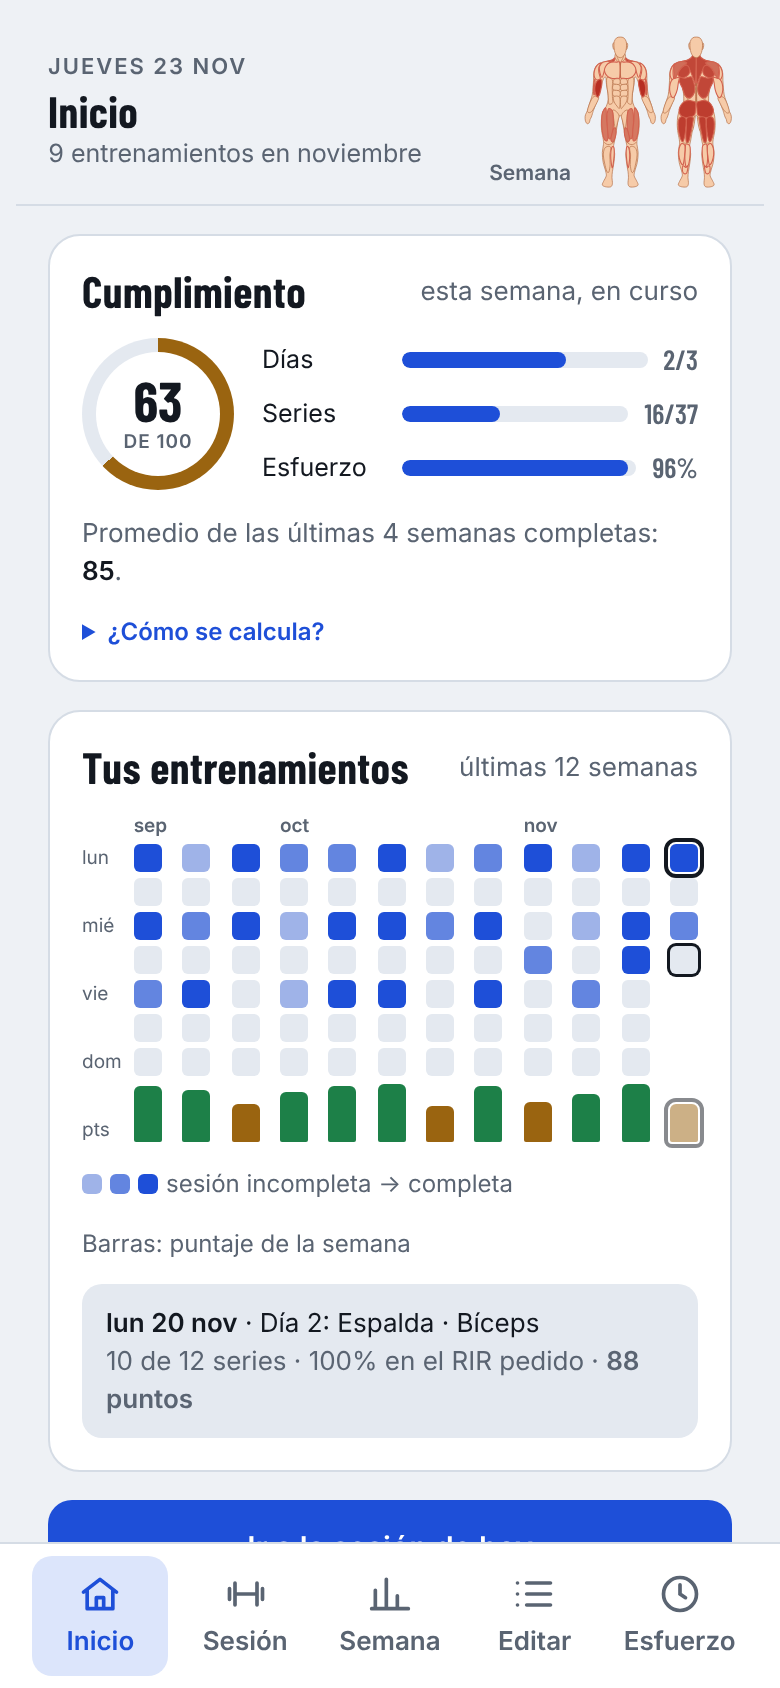
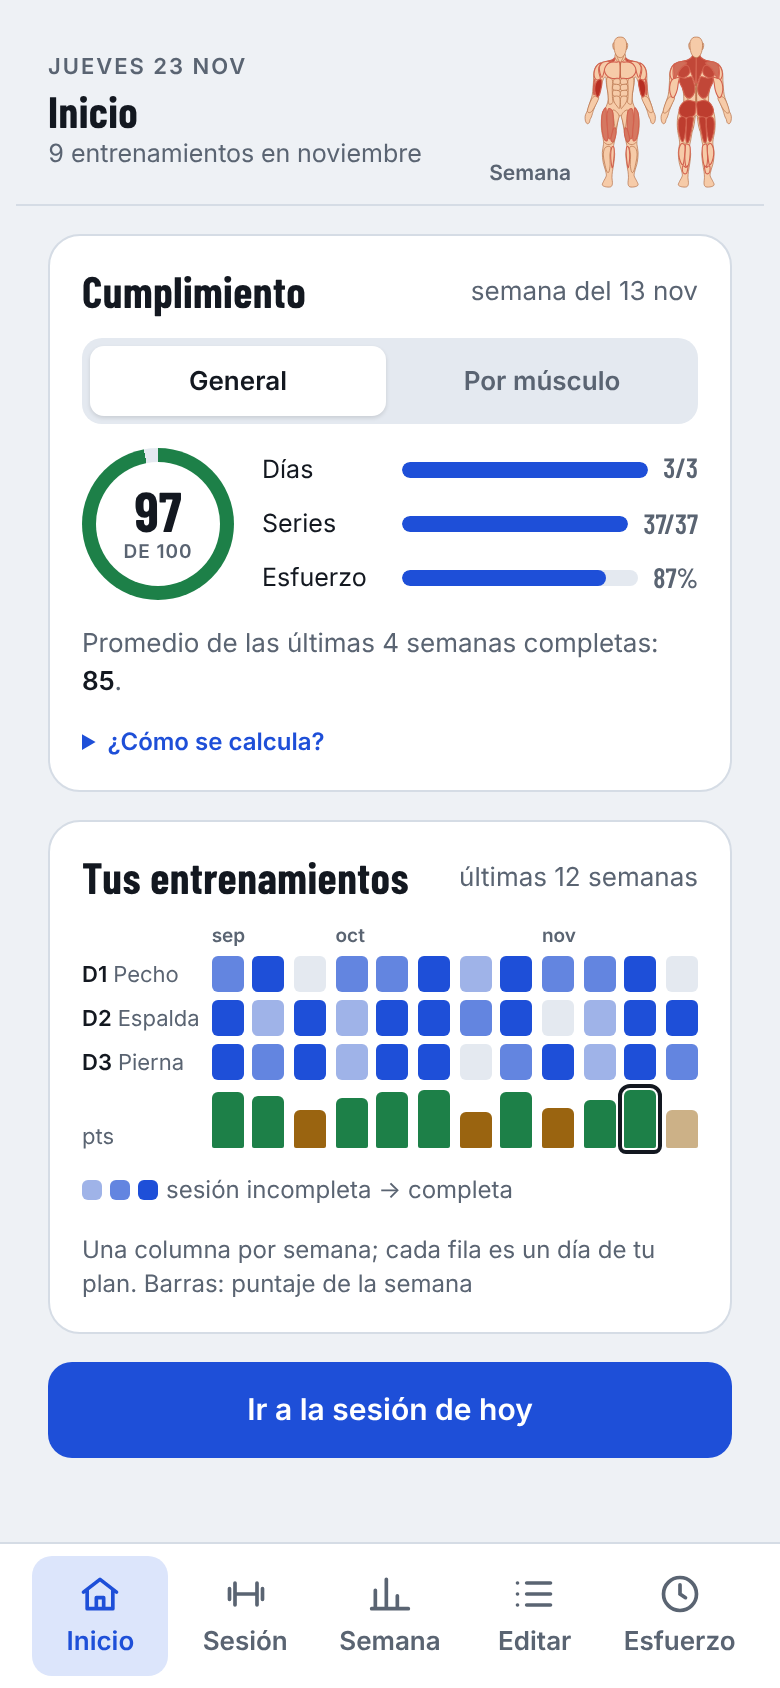
Prototipo: calendario por días del plan y puntaje por músculo
Pedido de Italo: filas D1/D2/D3 en vez de días de la semana y selector
General / Por músculo en el cumplimiento. Publicado en el artifact.

Claude-Session: https://claude.ai/code/session_01Wiqu2KeW6Cb1pWHsChQmSj

diff --git a/prototipo/index.html b/prototipo/index.html
@@ -370,12 +370,13 @@ details.det { margin-top: -4px; }
 .tabs-in { width: 100%; max-width: 480px; display: grid; grid-template-columns: repeat(5, minmax(0, 1fr)); gap: 4px; }
 /* inicio: calendario de días entrenados */
 .cal-wrap { display: grid; grid-template-columns: auto minmax(0, 1fr); gap: 6px; }
-.cal-dl { display: grid; grid-template-rows: 12px repeat(7, 14px) 30px; gap: 3px; font-size: 9.5px; color: var(--muted); line-height: 14px; }
-.cal { display: grid; grid-template-rows: 12px repeat(7, 14px) 30px; grid-auto-flow: column; grid-auto-columns: 14px; gap: 3px; justify-content: space-between; }
+.cal-dl { display: grid; grid-template-rows: 12px repeat(var(--nr), 18px) 30px; gap: 4px; font-size: 11px; color: var(--muted); line-height: 18px; white-space: nowrap; }
+.cal-dl b { color: var(--ink); font-weight: 600; margin-right: 3px; }
+.cal { display: grid; grid-template-rows: 12px repeat(var(--nr), 18px) 30px; grid-auto-flow: column; grid-auto-columns: 16px; gap: 4px; justify-content: space-between; }
 .cal-mes { font-size: 9.5px; font-weight: 600; color: var(--muted); line-height: 12px; white-space: nowrap; overflow: visible; }
-.cal-d { width: 14px; height: 14px; border: 0; border-radius: 3px; background: var(--surface-2); padding: 0; }
+.cal-d { width: 16px; height: 18px; border: 0; border-radius: 3px; background: var(--surface-2); padding: 0; }
 .cal-d.on { background: color-mix(in srgb, var(--accent) var(--q, 100%), var(--surface-2)); }
-.cal-sc { align-self: end; width: 14px; border: 0; padding: 0; border-radius: 3px 3px 1px 1px; background: var(--ok); min-height: 2px; }
+.cal-sc { align-self: end; width: 16px; border: 0; padding: 0; border-radius: 3px 3px 1px 1px; background: var(--ok); min-height: 2px; }
 .cal-sc.mid { background: var(--warn); } .cal-sc.low { background: var(--bad); } .cal-sc.cur { opacity: .5; }
 .cal-sc.sel { outline: 2px solid var(--ink); outline-offset: 1px; }
 .cal-dl .sc { align-self: end; line-height: 12px; }
@@ -399,6 +400,10 @@ details.det { margin-top: -4px; }
 .cump-p .bar { height: 8px; }
 .cump-p .fill { top: 0; bottom: 0; border-radius: 4px; }
 .cump-p .v { font-family: var(--display); font-size: 14px; font-weight: 600; color: var(--muted); white-space: nowrap; }
+.mus-sc { display: flex; flex-direction: column; gap: 7px; }
+.mus-sc .cump-p { grid-template-columns: 112px minmax(0, 1fr) 44px; }
+.mus-sc .cump-p .v { text-align: right; }
+.fill.mid { background: var(--warn); } .fill.low { background: var(--bad); } .fill.okc { background: var(--ok); }
 .cump-how { font-size: 12px; color: var(--muted); }
 .cump-how summary { color: var(--accent); font-size: 12px; }
 .cal-det { background: var(--surface-2); border-radius: 10px; padding: 10px 12px; font-size: 13px; }
@@ -745,6 +750,7 @@ function act(a, v) {
     // --- inicio de Rutina ---
     case 'calDay': S.calDay = S.calDay === v ? null : v; break;
     case 'calWeek': S.calWeek = +v; break;
+    case 'cumpMode': S.cumpMode = v; break;
     case 'goSesion': S.tab = 'hoy'; S.home = true; window.scrollTo(0, 0); break;
     case 'home': S.home = true; window.scrollTo(0, 0); break;
     case 'rutGo': {
@@ -941,23 +947,32 @@ function cumpSemana(l) {
   const esf = ss.length ? ss.reduce((a, h) => a + h.ri * h.sd * setsRut(h.k), 0) / Math.max(1, hechas) : 0;
   return { n: ss.length, hechas, plan, dias, series, esf: Math.min(1, esf), pts: Math.round(dias * CUMP.pDias + series * CUMP.pSeries + Math.min(1, esf) * CUMP.pEsf), cur: fin > HOY };
 }
+// series duras por músculo en la semana (principal 1, secundario 0,5) sobre el mínimo semanal (META)
+function musSemana(l) {
+  const fin = new Date(l); fin.setDate(l.getDate() + 7), t = {};
+  HIST.filter(h => h.f >= l && h.f < fin).forEach(h => (RUT[h.k] ? RUT[h.k].slots : []).forEach(d => {
+    const e = EX[d.alts[0]], n = d.sets * h.sd;
+    e.p.forEach(m => t[m] = (t[m] || 0) + n); e.s.forEach(m => t[m] = (t[m] || 0) + n * .5);
+  }));
+  return Object.keys(META).map(m => ({ m, a: Math.round((t[m] || 0) * 10) / 10, b: META[m][0], p: Math.min(100, Math.round((t[m] || 0) / META[m][0] * 100)) }));
+}
 const nivel = p => p >= 80 ? '' : p >= 60 ? 'mid' : 'low';
 function viewInicioApp() {
   const SEM = 12, lunes = new Date(HOY); lunes.setDate(HOY.getDate() - (HOY.getDay() + 6) % 7 - 7 * (SEM - 1));
   const porDia = {}; HIST.forEach(h => porDia[diaKey(h.f)] = h);
-  const semW = S.calWeek ?? SEM - 1;
+  const semW = S.calWeek ?? SEM - 1, NR = Math.min(RUT.length, CUMP.dias);
   let celdas = '', sems = [];
   for (let w = 0; w < SEM; w++) {
     const f0 = new Date(lunes); f0.setDate(lunes.getDate() + w * 7);
     const f6 = new Date(f0); f6.setDate(f0.getDate() + 6);
     const c = cumpSemana(f0); sems.push({ ...c, f0, f6 });
     celdas += `<span class="cal-mes">${w === 0 || f0.getMonth() !== f6.getMonth() || f0.getDate() === 1 ? MESES_C[f6.getMonth()] : ''}</span>`;
-    for (let i = 0; i < 7; i++) {
-      const f = new Date(f0); f.setDate(f0.getDate() + i);
-      const h = porDia[diaKey(f)], key = diaKey(f), fut = f > HOY, hoy = key === diaKey(HOY);
+    for (let k = 0; k < NR; k++) {
+      const ss = HIST.filter(h => h.k === k && h.f >= f0 && h.f <= f6), h = ss[ss.length - 1];
+      const key = h ? diaKey(h.f) : '';
       const q = h ? (ptsSesion(h) >= 85 ? 100 : ptsSesion(h) >= 70 ? 65 : 35) : 0;
-      const cls = ['cal-d', h ? 'on' : '', hoy ? 'hoy' : '', fut ? 'fut' : '', S.calDay === key ? 'sel' : ''].join(' ');
-      celdas += `<button class="${cls}" ${h ? `style="--q:${q}%"` : ''} ${fut ? 'disabled' : `data-a="calDay" data-v="${key}"`} aria-label="${fechaTxt(f)}${h ? ` · ${ptsSesion(h)} puntos` : ''}"></button>`;
+      const cls = ['cal-d', h ? 'on' : '', h && S.calDay === key ? 'sel' : '', f0 > HOY ? 'fut' : ''].join(' ');
+      celdas += `<button class="${cls}" ${h ? `style="--q:${q}%" data-a="calDay" data-v="${key}"` : 'disabled'} aria-label="Semana del ${fechaTxt(f0)} · D${k + 1}${h ? `: ${fechaTxt(h.f)}, ${ptsSesion(h)} puntos` : ': no se hizo'}"></button>`;
     }
     celdas += `<button class="cal-sc ${nivel(c.pts)} ${c.cur ? 'cur' : ''} ${w === semW ? 'sel' : ''}" style="height:${Math.max(2, c.pts * .3)}px" data-a="calWeek" data-v="${w}" aria-label="Semana del ${fechaTxt(f0)}: ${c.pts} puntos"></button>`;
   }
@@ -972,6 +987,9 @@ function viewInicioApp() {
   return `
     <section class="card">
       <div class="slot-head"><h2>Cumplimiento</h2><span class="small muted">${W.cur ? 'esta semana, en curso' : `semana del ${W.f0.getDate()} ${MESES_C[W.f0.getMonth()]}`}</span></div>
+      <div class="seg"><button class="${S.cumpMode === 'mus' ? '' : 'on'}" data-a="cumpMode" data-v="gen">General</button><button class="${S.cumpMode === 'mus' ? 'on' : ''}" data-a="cumpMode" data-v="mus">Por músculo</button></div>
+      ${S.cumpMode === 'mus' ? `<div class="mus-sc">${musSemana(W.f0).sort((x, y) => y.p - x.p).map(x => `<div class="cump-p"><span>${MUS[x.m]}</span><div class="bar"><div class="fill ${{ '': 'okc', mid: 'mid', low: 'low' }[nivel(x.p)]}" style="width:${x.p}%"></div></div><span class="v">${x.p}</span></div>`).join('')}</div>
+      <p class="small muted">Series duras de la semana sobre tu mínimo semanal de cada músculo (principal cuenta 1, secundario 0,5).</p>` : `
       <div class="cump">
         <div class="cump-n" style="--p:${W.pts};--c:${col}"><b>${W.pts}</b><span>de 100</span></div>
         <div class="cump-parts">
@@ -980,15 +998,15 @@ function viewInicioApp() {
           ${part('Esfuerzo', W.esf, `${Math.round(W.esf * 100)}%`)}
         </div>
       </div>
-      <p class="small muted">Promedio de las últimas 4 semanas completas: <b style="color:var(--ink)">${prom}</b>.</p>
+      <p class="small muted">Promedio de las últimas 4 semanas completas: <b style="color:var(--ink)">${prom}</b>.</p>`}
       <details class="cump-how"><summary>¿Cómo se calcula?</summary>
         <p><b>Días (40):</b> entrenamientos de la semana sobre los ${CUMP.dias} que te propones. <b>Series (40):</b> series hechas sobre las planificadas en tus ${CUMP.dias} rutinas. <b>Esfuerzo (20):</b> parte de esas series que quedó en el RIR pedido (1-2; el fallo solo en la última de un aislado). Los pesos se pueden cambiar.</p>
       </details>
     </section>
     <section class="card">
       <div class="slot-head"><h2>Tus entrenamientos</h2><span class="small muted">últimas ${SEM} semanas</span></div>
-      <div class="cal-wrap"><div class="cal-dl"><span></span>${['lun','','mié','','vie','','dom'].map(d => `<span>${d}</span>`).join('')}<span class="sc">pts</span></div><div class="cal">${celdas}</div></div>
-      <div class="cal-leg"><span><i style="background:color-mix(in srgb, var(--accent) 35%, var(--surface-2))"></i><i style="background:color-mix(in srgb, var(--accent) 65%, var(--surface-2))"></i><i style="background:var(--accent)"></i>sesión incompleta → completa</span><span>Barras: puntaje de la semana</span></div>
+      <div class="cal-wrap" style="--nr:${NR}"><div class="cal-dl"><span></span>${RUT.slice(0, NR).map((x, k) => `<span><b>D${k + 1}</b>${x.name.split(' · ')[0]}</span>`).join('')}<span class="sc">pts</span></div><div class="cal">${celdas}</div></div>
+      <div class="cal-leg"><span><i style="background:color-mix(in srgb, var(--accent) 35%, var(--surface-2))"></i><i style="background:color-mix(in srgb, var(--accent) 65%, var(--surface-2))"></i><i style="background:var(--accent)"></i>sesión incompleta → completa</span><span>Una columna por semana; cada fila es un día de tu plan. Barras: puntaje de la semana</span></div>
       ${det}
     </section>
     <button class="btn primary block" data-a="goSesion">Ir a la sesión de hoy</button>`;

diff --git a/BITACORA.md b/BITACORA.md
@@ -30,6 +30,13 @@ Desde ahora esas ramas tienen que salir de `main` y volver a `main` (ver `REGLAS
 
 ---
 
+## 2026-11-26 · Claude (hilo "Agregar inicio de rutinas") · calendario por días del plan y puntaje por músculo
+
+- Comentario de Italo: que el calendario no muestre todos los días de la semana sino los días del plan, y una opción de puntaje por grupo muscular.
+- Calendario: ahora cada fila es un día del plan ("D1 Pecho", "D2 Espalda", "D3 Pierna"; la etiqueta es la primera parte del nombre de la rutina) y cada columna una semana. El cuadrito se pinta si esa rutina se hizo esa semana, más fuerte mientras más completa; vacío si no se hizo. Debajo sigue la barra de puntaje semanal.
+- Cumplimiento con selector **General / Por músculo**. Por músculo: series duras de la semana (principal 1, secundario 0,5) sobre el mínimo semanal de `META`, de 0 a 100, ordenado de mayor a menor, verde/ámbar/rojo.
+- Código: `musSemana`, `S.cumpMode`, filas del calendario según `CUMP.dias` rutinas.
+
 ## 2026-11-26 · Claude (hilo "Agregar inicio de rutinas") · puntaje de cumplimiento en Inicio
 
 - Comentario de Italo: el calendario solo no lo convence; propone un puntaje de cumplimiento por días, intensidad, series. Propuesta hecha en el prototipo (pesos por confirmar):
